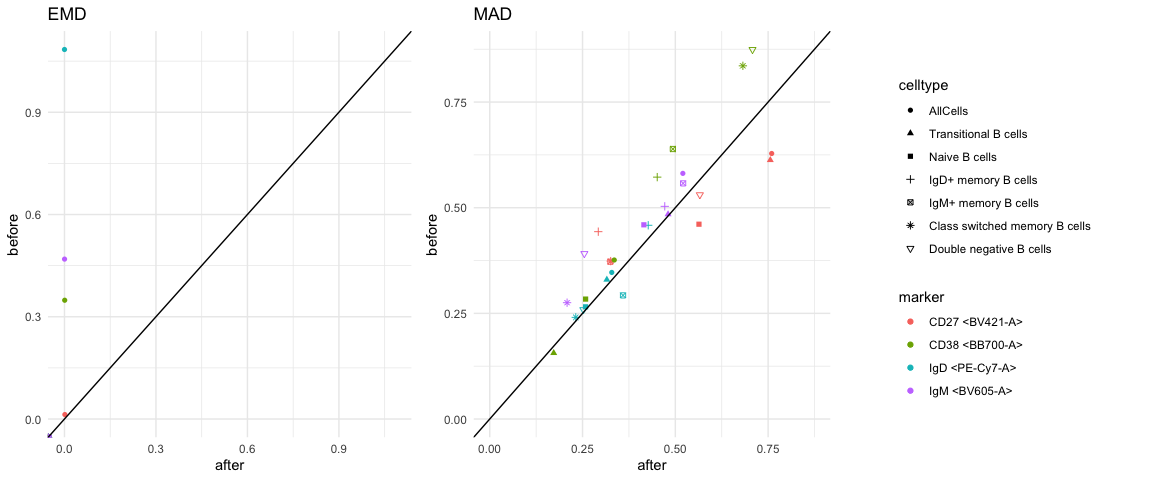
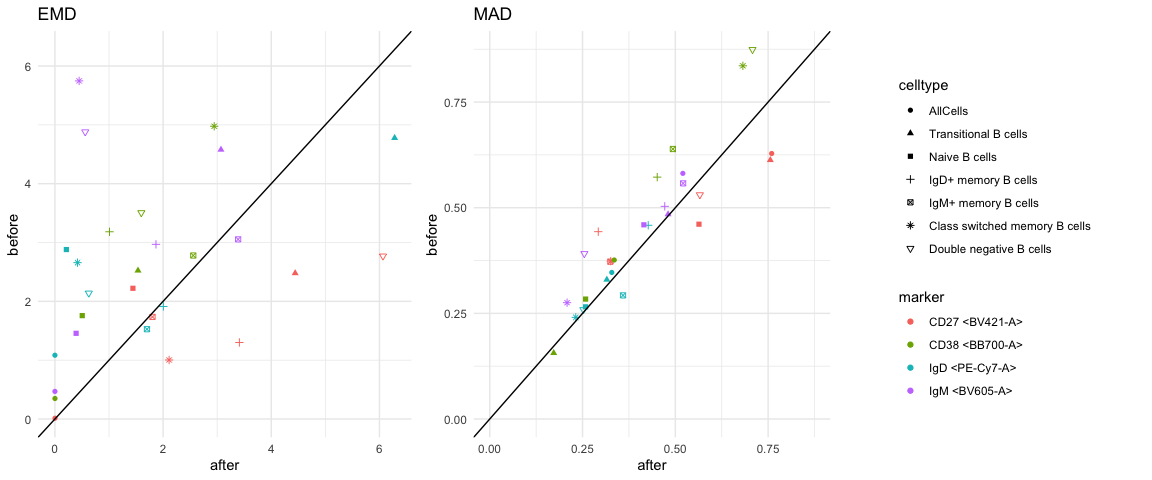
Fixed EMD figure in vignette

diff --git a/vignettes/CytoNorm_towards_distribution.md b/vignettes/CytoNorm_towards_distribution.md
@@ -572,8 +572,7 @@ p <- plotDensities(input = list("P1_C2" = files_P1_C2,
 #> Reading Data/Normalized_cellType/ID8_Panel2_TP2.fcs
 #> Reading Data/Normalized_cellType/ID8_Panel2_TP3.fcs
 #> [1] "original"
-#> Warning in FlowSOM::NewData(model$fsom, as.matrix(dfs[[type]][model$fsom$map$colsUsed])): 19321 cells (8.05%) seem far from their cluster
-#> centers.
+#> Warning in FlowSOM::NewData(model$fsom, as.matrix(dfs[[type]][model$fsom$map$colsUsed])): 19321 cells (8.05%) seem far from their cluster centers.
 #> [1] "normalized"
 ```
 
@@ -713,62 +712,6 @@ for (subset in names(models)){
       }
   }
 }
-#> Warning in max(dist[[cellType]][[marker]][25:26, 27:28], na.rm = T): no non-missing arguments to max; returning -Inf
-#> Warning in max(dist[[cellType]][[marker]][25:26, 27:28], na.rm = T): no non-missing arguments to max; returning -Inf
-#> Warning in max(dist[[cellType]][[marker]][25:26, 27:28], na.rm = T): no non-missing arguments to max; returning -Inf
-#> Warning in max(dist[[cellType]][[marker]][25:26, 27:28], na.rm = T): no non-missing arguments to max; returning -Inf
-#> Warning in max(dist[[cellType]][[marker]][25:26, 27:28], na.rm = T): no non-missing arguments to max; returning -Inf
-#> Warning in max(dist[[cellType]][[marker]][25:26, 27:28], na.rm = T): no non-missing arguments to max; returning -Inf
-#> Warning in max(dist[[cellType]][[marker]][25:26, 27:28], na.rm = T): no non-missing arguments to max; returning -Inf
-#> Warning in max(dist[[cellType]][[marker]][25:26, 27:28], na.rm = T): no non-missing arguments to max; returning -Inf
-#> Warning in max(dist[[cellType]][[marker]][25:26, 27:28], na.rm = T): no non-missing arguments to max; returning -Inf
-#> Warning in max(dist[[cellType]][[marker]][25:26, 27:28], na.rm = T): no non-missing arguments to max; returning -Inf
-#> Warning in max(dist[[cellType]][[marker]][25:26, 27:28], na.rm = T): no non-missing arguments to max; returning -Inf
-#> Warning in max(dist[[cellType]][[marker]][25:26, 27:28], na.rm = T): no non-missing arguments to max; returning -Inf
-#> Warning in max(dist[[cellType]][[marker]][25:26, 27:28], na.rm = T): no non-missing arguments to max; returning -Inf
-#> Warning in max(dist[[cellType]][[marker]][25:26, 27:28], na.rm = T): no non-missing arguments to max; returning -Inf
-#> Warning in max(dist[[cellType]][[marker]][25:26, 27:28], na.rm = T): no non-missing arguments to max; returning -Inf
-#> Warning in max(dist[[cellType]][[marker]][25:26, 27:28], na.rm = T): no non-missing arguments to max; returning -Inf
-#> Warning in max(dist[[cellType]][[marker]][25:26, 27:28], na.rm = T): no non-missing arguments to max; returning -Inf
-#> Warning in max(dist[[cellType]][[marker]][25:26, 27:28], na.rm = T): no non-missing arguments to max; returning -Inf
-#> Warning in max(dist[[cellType]][[marker]][25:26, 27:28], na.rm = T): no non-missing arguments to max; returning -Inf
-#> Warning in max(dist[[cellType]][[marker]][25:26, 27:28], na.rm = T): no non-missing arguments to max; returning -Inf
-#> Warning in max(dist[[cellType]][[marker]][25:26, 27:28], na.rm = T): no non-missing arguments to max; returning -Inf
-#> Warning in max(dist[[cellType]][[marker]][25:26, 27:28], na.rm = T): no non-missing arguments to max; returning -Inf
-#> Warning in max(dist[[cellType]][[marker]][25:26, 27:28], na.rm = T): no non-missing arguments to max; returning -Inf
-#> Warning in max(dist[[cellType]][[marker]][25:26, 27:28], na.rm = T): no non-missing arguments to max; returning -Inf
-#> Warning in max(dist[[cellType]][[marker]][25:26, 27:28], na.rm = T): no non-missing arguments to max; returning -Inf
-#> Warning in max(dist[[cellType]][[marker]][25:26, 27:28], na.rm = T): no non-missing arguments to max; returning -Inf
-#> Warning in max(dist[[cellType]][[marker]][25:26, 27:28], na.rm = T): no non-missing arguments to max; returning -Inf
-#> Warning in max(dist[[cellType]][[marker]][25:26, 27:28], na.rm = T): no non-missing arguments to max; returning -Inf
-#> Warning in max(dist[[cellType]][[marker]][25:26, 27:28], na.rm = T): no non-missing arguments to max; returning -Inf
-#> Warning in max(dist[[cellType]][[marker]][25:26, 27:28], na.rm = T): no non-missing arguments to max; returning -Inf
-#> Warning in max(dist[[cellType]][[marker]][25:26, 27:28], na.rm = T): no non-missing arguments to max; returning -Inf
-#> Warning in max(dist[[cellType]][[marker]][25:26, 27:28], na.rm = T): no non-missing arguments to max; returning -Inf
-#> Warning in max(dist[[cellType]][[marker]][25:26, 27:28], na.rm = T): no non-missing arguments to max; returning -Inf
-#> Warning in max(dist[[cellType]][[marker]][25:26, 27:28], na.rm = T): no non-missing arguments to max; returning -Inf
-#> Warning in max(dist[[cellType]][[marker]][25:26, 27:28], na.rm = T): no non-missing arguments to max; returning -Inf
-#> Warning in max(dist[[cellType]][[marker]][25:26, 27:28], na.rm = T): no non-missing arguments to max; returning -Inf
-#> Warning in max(dist[[cellType]][[marker]][25:26, 27:28], na.rm = T): no non-missing arguments to max; returning -Inf
-#> Warning in max(dist[[cellType]][[marker]][25:26, 27:28], na.rm = T): no non-missing arguments to max; returning -Inf
-#> Warning in max(dist[[cellType]][[marker]][25:26, 27:28], na.rm = T): no non-missing arguments to max; returning -Inf
-#> Warning in max(dist[[cellType]][[marker]][25:26, 27:28], na.rm = T): no non-missing arguments to max; returning -Inf
-#> Warning in max(dist[[cellType]][[marker]][25:26, 27:28], na.rm = T): no non-missing arguments to max; returning -Inf
-#> Warning in max(dist[[cellType]][[marker]][25:26, 27:28], na.rm = T): no non-missing arguments to max; returning -Inf
-#> Warning in max(dist[[cellType]][[marker]][25:26, 27:28], na.rm = T): no non-missing arguments to max; returning -Inf
-#> Warning in max(dist[[cellType]][[marker]][25:26, 27:28], na.rm = T): no non-missing arguments to max; returning -Inf
-#> Warning in max(dist[[cellType]][[marker]][25:26, 27:28], na.rm = T): no non-missing arguments to max; returning -Inf
-#> Warning in max(dist[[cellType]][[marker]][25:26, 27:28], na.rm = T): no non-missing arguments to max; returning -Inf
-#> Warning in max(dist[[cellType]][[marker]][25:26, 27:28], na.rm = T): no non-missing arguments to max; returning -Inf
-#> Warning in max(dist[[cellType]][[marker]][25:26, 27:28], na.rm = T): no non-missing arguments to max; returning -Inf
-#> Warning in max(dist[[cellType]][[marker]][25:26, 27:28], na.rm = T): no non-missing arguments to max; returning -Inf
-#> Warning in max(dist[[cellType]][[marker]][25:26, 27:28], na.rm = T): no non-missing arguments to max; returning -Inf
-#> Warning in max(dist[[cellType]][[marker]][25:26, 27:28], na.rm = T): no non-missing arguments to max; returning -Inf
-#> Warning in max(dist[[cellType]][[marker]][25:26, 27:28], na.rm = T): no non-missing arguments to max; returning -Inf
-#> Warning in max(dist[[cellType]][[marker]][25:26, 27:28], na.rm = T): no non-missing arguments to max; returning -Inf
-#> Warning in max(dist[[cellType]][[marker]][25:26, 27:28], na.rm = T): no non-missing arguments to max; returning -Inf
-#> Warning in max(dist[[cellType]][[marker]][25:26, 27:28], na.rm = T): no non-missing arguments to max; returning -Inf
-#> Warning in max(dist[[cellType]][[marker]][25:26, 27:28], na.rm = T): no non-missing arguments to max; returning -Inf
 ```
 
 #### Make figures

diff --git a/vignettes/CytoNorm_without_controls.md b/vignettes/CytoNorm_without_controls.md
@@ -63,6 +63,7 @@ library(ggpubr)
 ``` r
 
 dir.create("RDS")
+#> Warning in dir.create("RDS"): 'RDS' already exists
 ```
 
 ### Download and organize the data
@@ -187,13 +188,10 @@ model1_withoutControl <- CytoNorm.train(files = flowSet(agg_P1_C1, agg_P2_C1),
                                                               xdim = 7, ydim = 7, 
                                                               nClus = 3, 
                                                               scale = FALSE))
-#> Plot FlowSOM trees
-#> Plot file distribution
-#> Calculate t-SNE
-#> Plot cluster per metacluster distribution
-#> Plot heatmap
-#> Make tables
-#> Printing
+#> Warning in CytoNorm.train(files = flowSet(agg_P1_C1, agg_P2_C1), labels = c("P1", : Reusing FlowSOM result previously saved at ./tmp/CytoNorm_FlowSOM.RDS. 
+#>          If this was not intended, one can either specify another outputDir, 
+#>          make use of the recompute parameter or move the FlowSOM object in the 
+#>          file manager.
 #> Splitting V1
 #> Splitting V2
 #> Processing cluster 1
@@ -525,8 +523,7 @@ p <- plotDensities(input = list("P1_C1" = agg_P1_C1,
 #> Reading Data/Normalized_cellType/ID4_Panel2_TP2.fcs
 #> Reading Data/Normalized_cellType/ID4_Panel2_TP3.fcs
 #> [1] "original"
-#> Warning in FlowSOM::NewData(model$fsom, as.matrix(dfs[[type]][model$fsom$map$colsUsed])): 1255 cells (1.14%) seem far from their cluster
-#> centers.
+#> Warning in FlowSOM::NewData(model$fsom, as.matrix(dfs[[type]][model$fsom$map$colsUsed])): 1255 cells (1.14%) seem far from their cluster centers.
 #> [1] "normalized"
 ```
 
@@ -597,13 +594,19 @@ for (file in names(gating)){
   manualLabels[[paste0(file, ".fcs")]] <- factor(unname(dictionary[manual]),                                                 
                                                  levels = unname(dictionary))
 }
-saveRDS(manualLabels, "Data/Preprocessed/attachments/manualLabels.rds")
 
 # Aggregates
 dir.create("tmp/before")
+#> Warning in dir.create("tmp/before"): 'tmp/before' already exists
+```
+
+``` r
 dir.create("tmp/after")
+#> Warning in dir.create("tmp/after"): 'tmp/after' already exists
+```
+
+``` r
 manual_agg <- list()
-manualLabels <- readRDS("Data/Preprocessed/attachments/manualLabels.rds")
 
 aggregates <- list("agg_P1_C1" = files_P1_C1,
                    "agg_P2_C1" = files_P2_C1)
@@ -632,6 +635,10 @@ for (agg in names(aggregates)){
 }
 #> agg_P1_C1
 #> agg_P2_C1
+```
+
+``` r
+saveRDS(manualLabels, "Data/Preprocessed/attachments/manualLabels.rds")
 ```
 
 #### Define cell types and files for model evaluation

diff --git a/vignettes/CytoNorm_channels_without_clustering.md b/vignettes/CytoNorm_channels_without_clustering.md
@@ -515,8 +515,7 @@ p <- plotDensities(input = list("P1_C1" = files_P1_C1_norm,
 #> Reading Data/Normalized_cellState/ID8_Panel1_TP2.fcs
 #> Reading Data/Normalized_cellState/ID8_Panel1_TP3.fcs
 #> [1] "original"
-#> Warning in FlowSOM::NewData(model$fsom, as.matrix(dfs[[type]][model$fsom$map$colsUsed])): 1990 cells (1.16%) seem far from their cluster
-#> centers.
+#> Warning in FlowSOM::NewData(model$fsom, as.matrix(dfs[[type]][model$fsom$map$colsUsed])): 1990 cells (1.16%) seem far from their cluster centers.
 #> [1] "normalized"
 ```
 
@@ -589,6 +588,10 @@ for (agg in names(aggregates)){
   write.FCS(after, paste0("tmp/after/", agg, ".fcs"))
 }
 #> agg_P1_C2
+```
+
+``` r
+saveRDS(manualLabels, "Data/Preprocessed/attachments/manualLabels.rds")
 ```
 
 #### Define cell types and files for model evaluation
@@ -681,10 +684,6 @@ p_emd <- ggplot(EMD_df, aes(x = after, y = before)) +
   theme_minimal()
 
 leg_emd <- get_legend(p_emd)
-#> Warning: Removed 42 rows containing missing values or values outside the scale range (`geom_point()`).
-```
-
-``` r
 
 p_emd <- p_emd  +
     theme(legend.position = "none")
@@ -720,7 +719,6 @@ plotlist[[length(plotlist)+1]] <- p_mad
 
 ggarrange(ggarrange(plotlist = plotlist),
           as_ggplot(leg_emd), ncol=2, widths = c(4,1.5))
-#> Warning: Removed 42 rows containing missing values or values outside the scale range (`geom_point()`).
 ```
 
 ![](CytoNorm_channels_without_clustering_files/figure-gfm/EMD%20and%20MAD%20figures-1.png)<!-- -->
